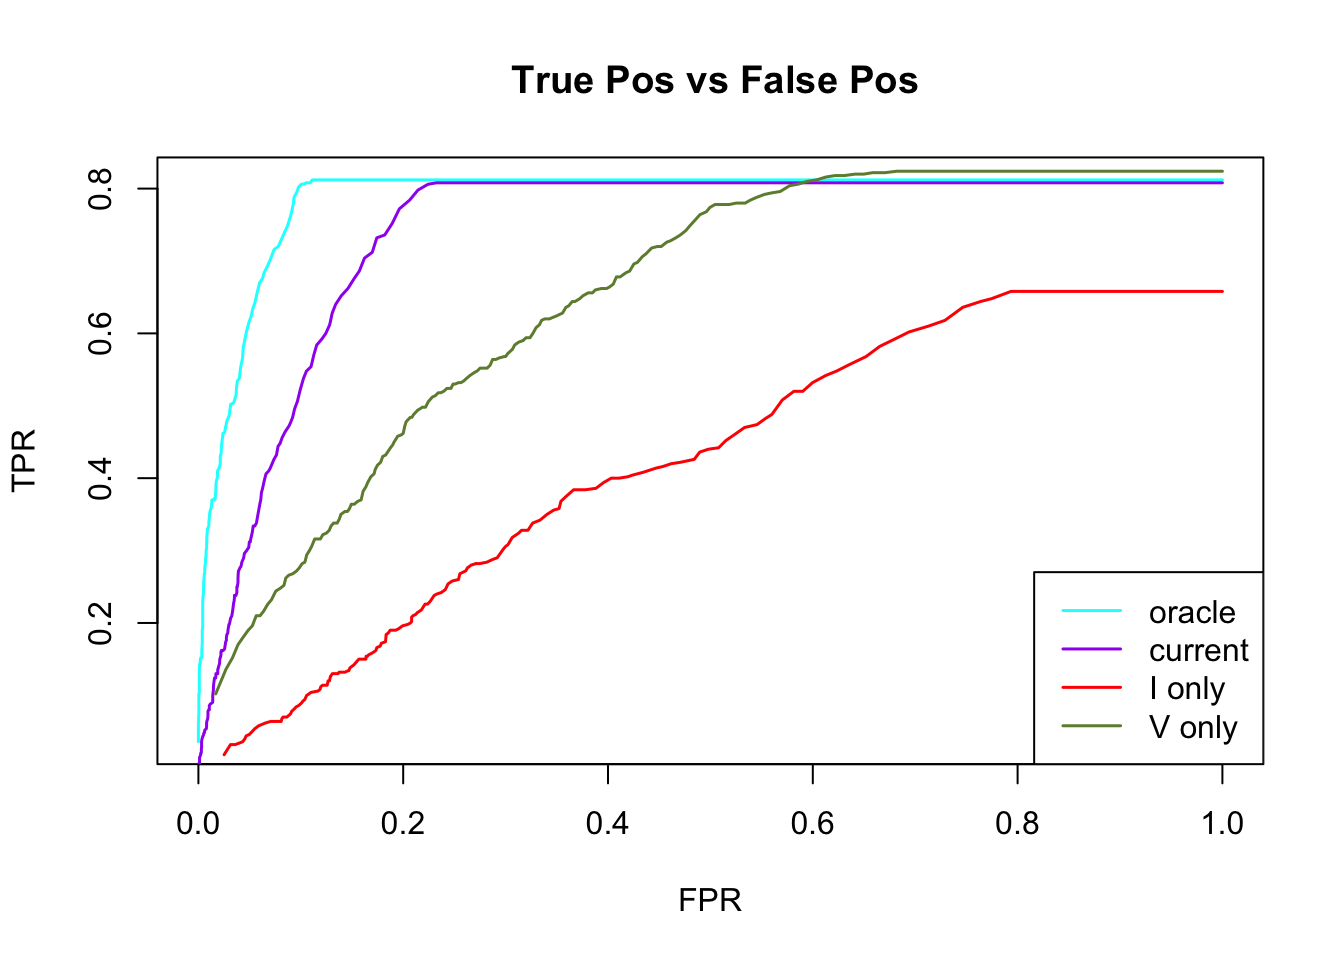
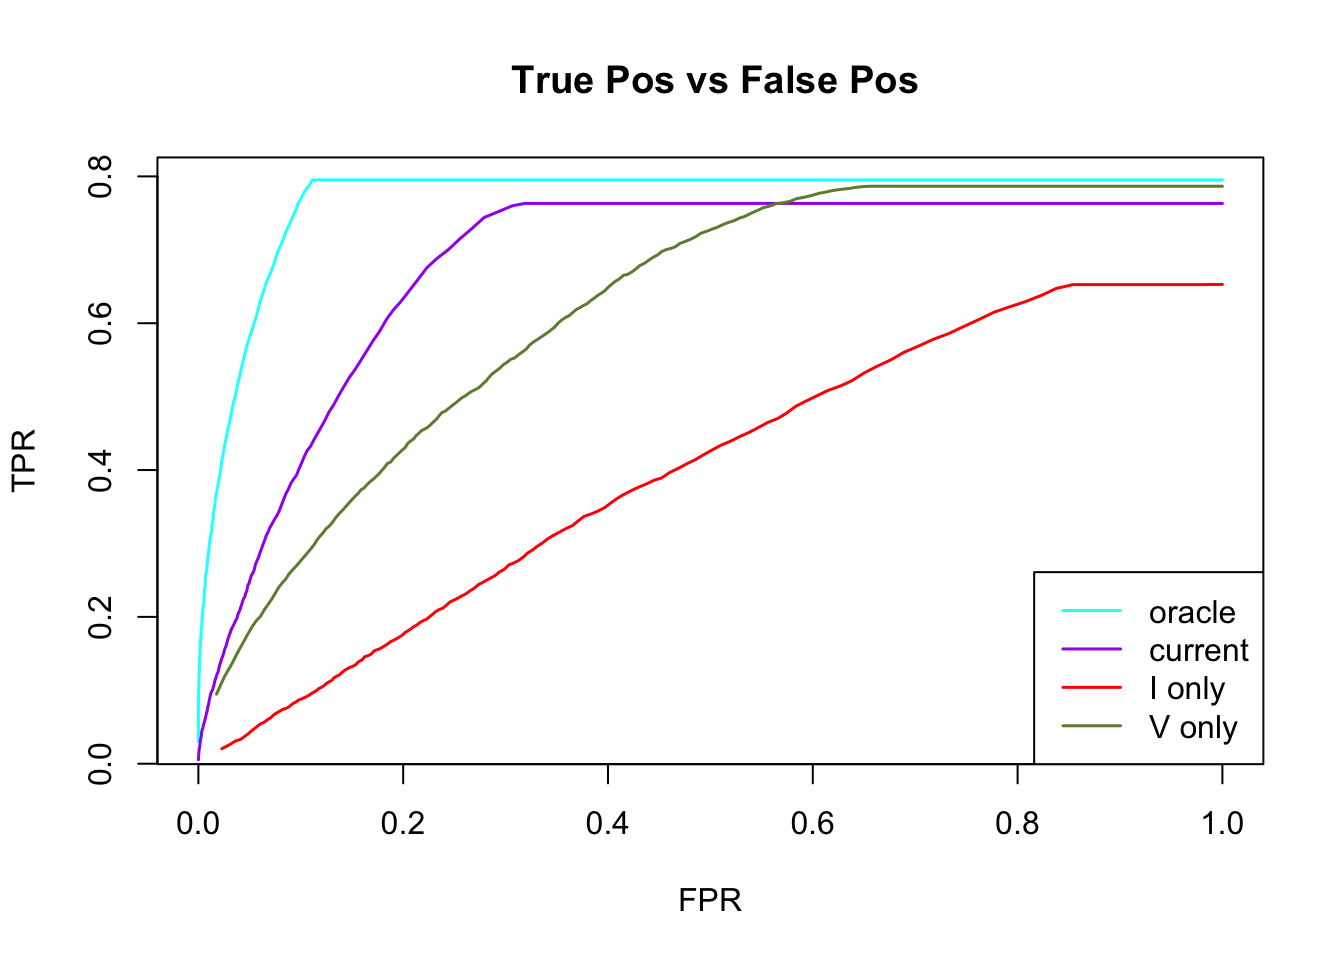
Build site.

diff --git a/docs/EstimateCorHeter.html b/docs/EstimateCorHeter.html
@@ -340,7 +340,7 @@ div.section {
 </div>
 
 
-<p><strong>Last updated:</strong> 2018-12-09</p>
+<p><strong>Last updated:</strong> 2018-12-13</p>
 <strong>workflowr checks:</strong> <small>(Click a bullet for more information)</small>
 <ul>
 <li>
@@ -364,7 +364,7 @@ div.section {
 </details>
 </li>
 <li>
-<p><details> <summary> <strong style="color:blue;">✔</strong> <strong>Repository version:</strong> <a href="https://github.com/zouyuxin/mash_application/tree/f33b26fd0f45f82b2efe5927b2d33977da3aa494" target="_blank">f33b26f</a> </summary></p>
+<p><details> <summary> <strong style="color:blue;">✔</strong> <strong>Repository version:</strong> <a href="https://github.com/zouyuxin/mash_application/tree/fe6e6f890d0b2cdf685af272e41b8f975bc8371e" target="_blank">fe6e6f8</a> </summary></p>
 Great! You are using Git for version control. Tracking code development and connecting the code version to the results is critical for reproducibility. The version displayed above was the version of the Git repository at the time these results were generated. <br><br> Note that you need to be careful to ensure that all relevant files for the analysis have been committed to Git prior to generating the results (you can use <code>wflow_publish</code> or <code>wflow_git_commit</code>). workflowr only checks the R Markdown file, but you know if there are other scripts or data files that it depends on. Below is the status of the Git repository when the results were generated:
 <pre><code>
 Ignored files:
@@ -382,6 +382,7 @@ Ignored files:
 
 Untracked files:
     Untracked:  analysis/Classify.Rmd
+    Untracked:  analysis/EstimateCorHeterR50.Rmd
     Untracked:  analysis/EstimateCorMash.Rmd
     Untracked:  analysis/EstimateCorMaxGD.Rmd
     Untracked:  analysis/EstimateCorMaxMCMash.Rmd
@@ -459,7 +460,6 @@ Untracked files:
     Untracked:  output/result.em.rds
 
 Unstaged changes:
-    Modified:   analysis/EstimateCorIndex.Rmd
     Modified:   analysis/EstimateCorMaxMVSample.Rmd
     Modified:   analysis/Mash_UKBio.Rmd
     Modified:   analysis/mash_missing_samplesize.Rmd
@@ -495,6 +495,40 @@ Message
 </tr>
 </thead>
 <tbody>
+<tr>
+<td style="text-align:left;">
+Rmd
+</td>
+<td style="text-align:left;">
+<a href="https://github.com/zouyuxin/mash_application/blob/fe6e6f890d0b2cdf685af272e41b8f975bc8371e/analysis/EstimateCorHeter.Rmd" target="_blank">fe6e6f8</a>
+</td>
+<td style="text-align:left;">
+zouyuxin
+</td>
+<td style="text-align:left;">
+2018-12-13
+</td>
+<td style="text-align:left;">
+wflow_publish(“analysis/EstimateCorHeter.Rmd”)
+</td>
+</tr>
+<tr>
+<td style="text-align:left;">
+html
+</td>
+<td style="text-align:left;">
+<a href="https://cdn.rawgit.com/zouyuxin/mash_application/27b0d6ddbda105c2c23400f19db2aa8f2ab69c55/docs/EstimateCorHeter.html" target="_blank">27b0d6d</a>
+</td>
+<td style="text-align:left;">
+zouyuxin
+</td>
+<td style="text-align:left;">
+2018-12-09
+</td>
+<td style="text-align:left;">
+Build site.
+</td>
+</tr>
 <tr>
 <td style="text-align:left;">
 Rmd
@@ -576,7 +610,7 @@ library(kableExtra)</code></pre>
 library(mashr)</code></pre>
 <pre><code>Loading required package: ashr</code></pre>
 <pre class="r"><code>set.seed(1)
-n = 1000; p = 5
+n = 10000; p = 5
 B = matrix(0,n,p)
 V = matrix(0.75, p, p); diag(V) = 1
 Bhat = rmvnorm(n, sigma = V)
@@ -619,10 +653,10 @@ loglik
 ignore
 </td>
 <td style="text-align:right;">
--6354.647
+-62970.94
 </td>
 <td style="text-align:right;">
-234
+2930
 </td>
 </tr>
 <tr>
@@ -630,7 +664,7 @@ ignore
 current
 </td>
 <td style="text-align:right;">
--5144.464
+-50426.33
 </td>
 <td style="text-align:right;">
 0
@@ -641,7 +675,7 @@ current
 true
 </td>
 <td style="text-align:right;">
--5148.059
+-50432.44
 </td>
 <td style="text-align:right;">
 0
@@ -710,11 +744,11 @@ m.true = mash(data.true, U.c, verbose = FALSE, algorithm.version = &#39;R&#39;)<
 <p>The estimated V is</p>
 <pre class="r"><code>V.current$V</code></pre>
 <pre><code>          [,1]      [,2]      [,3]      [,4]      [,5]
-[1,] 1.0000000 0.4035613 0.4284902 0.3456594 0.3862639
-[2,] 0.4035613 1.0000000 0.3750880 0.3750139 0.3995121
-[3,] 0.4284902 0.3750880 1.0000000 0.4354905 0.4390817
-[4,] 0.3456594 0.3750139 0.4354905 1.0000000 0.4513623
-[5,] 0.3862639 0.3995121 0.4390817 0.4513623 1.0000000</code></pre>
+[1,] 1.0000000 0.3866502 0.4018458 0.3783971 0.3990991
+[2,] 0.3866502 1.0000000 0.3913344 0.3688566 0.3936946
+[3,] 0.4018458 0.3913344 1.0000000 0.4172119 0.3878397
+[4,] 0.3783971 0.3688566 0.4172119 1.0000000 0.3830625
+[5,] 0.3990991 0.3936946 0.3878397 0.3830625 1.0000000</code></pre>
 <pre class="r"><code>Ionly = c(get_loglik(m.I), length(get_significant_results(m.I)))
 
 Vonly = c(get_loglik(m.V), length(get_significant_results(m.V)))
@@ -746,10 +780,10 @@ loglik
 I only
 </td>
 <td style="text-align:right;">
--6790.814
+-67844.31
 </td>
 <td style="text-align:right;">
-65
+597
 </td>
 </tr>
 <tr>
@@ -757,10 +791,10 @@ I only
 V only
 </td>
 <td style="text-align:right;">
--6531.185
+-65457.36
 </td>
 <td style="text-align:right;">
-183
+1904
 </td>
 </tr>
 <tr>
@@ -768,10 +802,10 @@ V only
 current
 </td>
 <td style="text-align:right;">
--6564.140
+-65793.59
 </td>
 <td style="text-align:right;">
-2
+28
 </td>
 </tr>
 <tr>
@@ -779,7 +813,7 @@ current
 true
 </td>
 <td style="text-align:right;">
--6043.670
+-60618.07
 </td>
 <td style="text-align:right;">
 0
@@ -846,9 +880,14 @@ U.c = cov_canonical(data)
 m.I = mash(data, U.c, verbose = FALSE)
 
 data.V = mash_update_data(data, V = V)
-m.V = mash(data.V, U.c, verbose = FALSE)
-
-V.current = estimate_null_correlation(data, U.c)
+m.V = mash(data.V, U.c, verbose = FALSE)</code></pre>
+<pre><code>Warning in REBayes::KWDual(A, rep(1, k), normalize(w), control = control): estimated mixing distribution has some negative values:
+               consider reducing rtol</code></pre>
+<pre><code>Warning in mixIP(matrix_lik = structure(c(0.110553314193142,
+0.153957533037059, : Optimization step yields mixture weights that are
+either too small, or negative; weights have been corrected and renormalized
+after the optimization.</code></pre>
+<pre class="r"><code>V.current = estimate_null_correlation(data, U.c)
 m.current = V.current$mash.model
 
 data.true = mash_update_data(data, V = V.random)
@@ -856,11 +895,11 @@ m.true = mash(data.true, U.c, verbose = FALSE, algorithm.version = &#39;R&#39;)<
 <p>The estimated V is</p>
 <pre class="r"><code>V.current$V</code></pre>
 <pre><code>          [,1]      [,2]      [,3]      [,4]      [,5]
-[1,] 1.0000000 0.3049484 0.3354571 0.3050442 0.4034261
-[2,] 0.3049484 1.0000000 0.3300064 0.3628014 0.3568255
-[3,] 0.3354571 0.3300064 1.0000000 0.3698771 0.3914646
-[4,] 0.3050442 0.3628014 0.3698771 1.0000000 0.3693130
-[5,] 0.4034261 0.3568255 0.3914646 0.3693130 1.0000000</code></pre>
+[1,] 1.0000000 0.3546903 0.3429767 0.3490963 0.3441630
+[2,] 0.3546903 1.0000000 0.3990047 0.3829697 0.3814803
+[3,] 0.3429767 0.3990047 1.0000000 0.3706125 0.3784724
+[4,] 0.3490963 0.3829697 0.3706125 1.0000000 0.3832408
+[5,] 0.3441630 0.3814803 0.3784724 0.3832408 1.0000000</code></pre>
 <pre class="r"><code>Ionly = c(get_loglik(m.I), length(get_significant_results(m.I)), sum(get_significant_results(m.I) &lt;= n/2))
 
 Vonly = c(get_loglik(m.V), length(get_significant_results(m.V)), sum(get_significant_results(m.V) &lt;= n/2))
@@ -895,13 +934,13 @@ false positive
 I only
 </td>
 <td style="text-align:right;">
--7013.984
+-70068.62
 </td>
 <td style="text-align:right;">
-69
+741
 </td>
 <td style="text-align:right;">
-32
+344
 </td>
 </tr>
 <tr>
@@ -909,13 +948,13 @@ I only
 V only
 </td>
 <td style="text-align:right;">
--6826.771
+-68333.69
 </td>
 <td style="text-align:right;">
-260
+2588
 </td>
 <td style="text-align:right;">
-99
+999
 </td>
 </tr>
 <tr>
@@ -923,13 +962,13 @@ V only
 current
 </td>
 <td style="text-align:right;">
--6848.527
+-68468.46
 </td>
 <td style="text-align:right;">
-11
+114
 </td>
 <td style="text-align:right;">
-2
+16
 </td>
 </tr>
 <tr>
@@ -937,13 +976,13 @@ current
 true
 </td>
 <td style="text-align:right;">
--6371.732
+-63908.31
 </td>
 <td style="text-align:right;">
-33
+340
 </td>
 <td style="text-align:right;">
-1
+5
 </td>
 </tr>
 </tbody>
